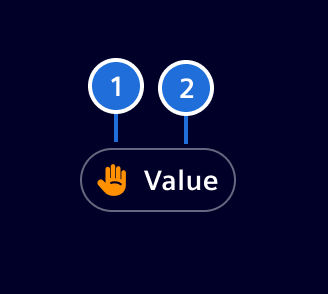
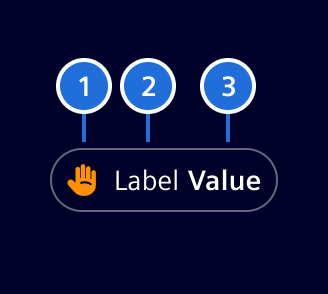
docs(summary-chip): update summary-chip component images

diff --git a/docs/components/status-notifications/summary-chip.md b/docs/components/status-notifications/summary-chip.md
@@ -1,11 +1,11 @@
-# Summary Chip
+# Summary chip
 
-**Summary Chips** are compact components designed to quickly and concisely summarize data.
+**Summary chips** are compact components designed to quickly and concisely summarize data.
 They are often used to provide a condensed overview, summarize states, and allow for filtering of information in a visually appealing manner.
 
 ## Usage ---
 
-![Summary Chip](images/summary-chip.png)
+![Summary chip](images/summary-chip.png)
 
 There are basically two main use cases for the summary chip component:
 
@@ -18,22 +18,28 @@ Arrange one or more Summary Chips in a horizontal layout above or near the relat
 Chips can be combined with other supporting elements, such as badges, buttons, or links, to enhance functionality.
 Place them within a container that can use a background of `None`, `Base-0`, or `Base-1`, depending on the visual requirements.
 
-![Summary Chip Example](images/summary-chip-example.png)
+![Summary chip example](images/summary-chip-example.png)
 
 ## Design ---
 
 ### Elements
 
-![Summary Chip Construction](images/summary-chip-usage-construction.png)
+![Summary chip construction](images/summary-chip-usage-construction.png)
 
-> 1. Category icon or composite icon, 2. Value
+> 1. Category icon or composite icon (optional),  2. Label (optional),  3. Value (optional)
 
 The summary chip can hold an icon or a composite icon representing a state.
 The icon must be self-explanatory since there is no label.
 
 ### States
 
-![Summary Chip States](images/summary-chip-usage-states.png)
+![Summary chip states](images/summary-chip-usage-states.png)
+
+### Variants
+
+The component is very flexible, hence allowing the following variants:
+
+![Summary chip variants](images/summary-chip-usage-variants.png)
 
 ## Code ---
 
